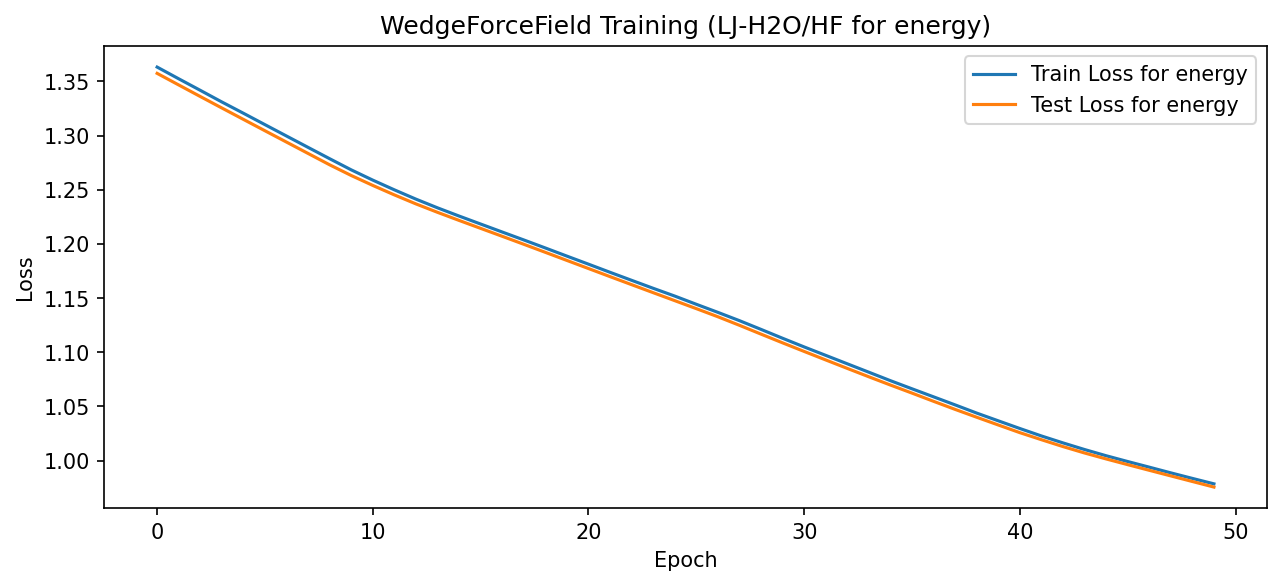
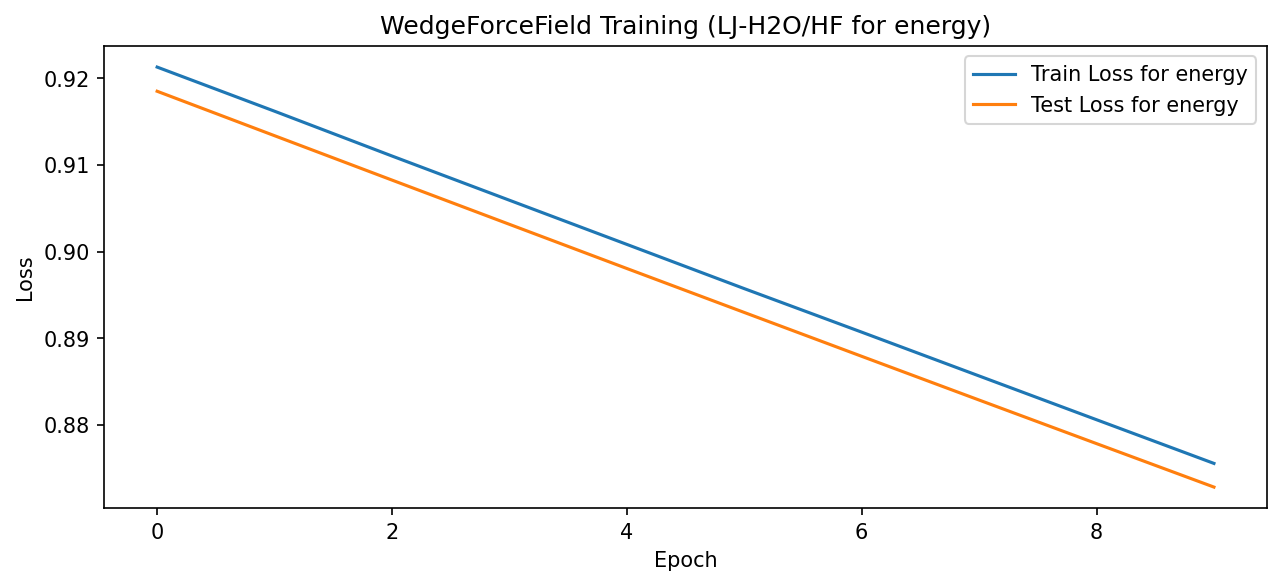
training with more epochs, unchanged

diff --git a/ff_script.py b/ff_script.py
@@ -571,7 +571,7 @@ def main():
         print("Training new model...")
 
     lr = 1e-6
-    epochs = 50
+    epochs = 10
     print("Learning rate:", lr)
     optimizer = optim.Adam(model.parameters(), lr)
     train_losses, test_losses = train_model_energy(model, train_loader, test_loader, optimizer, epochs)
